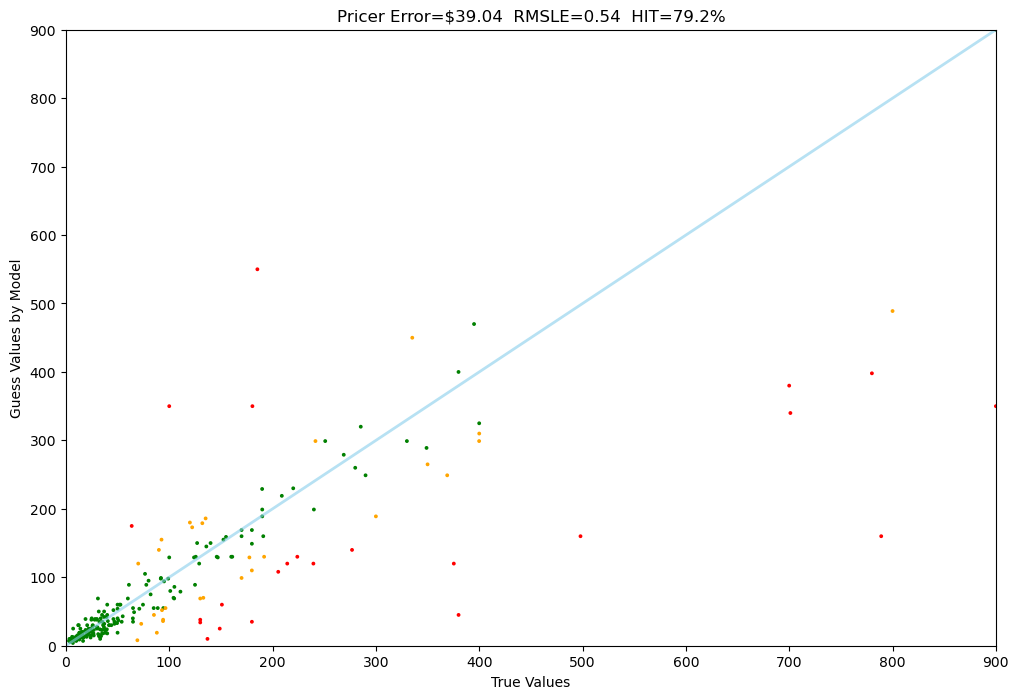
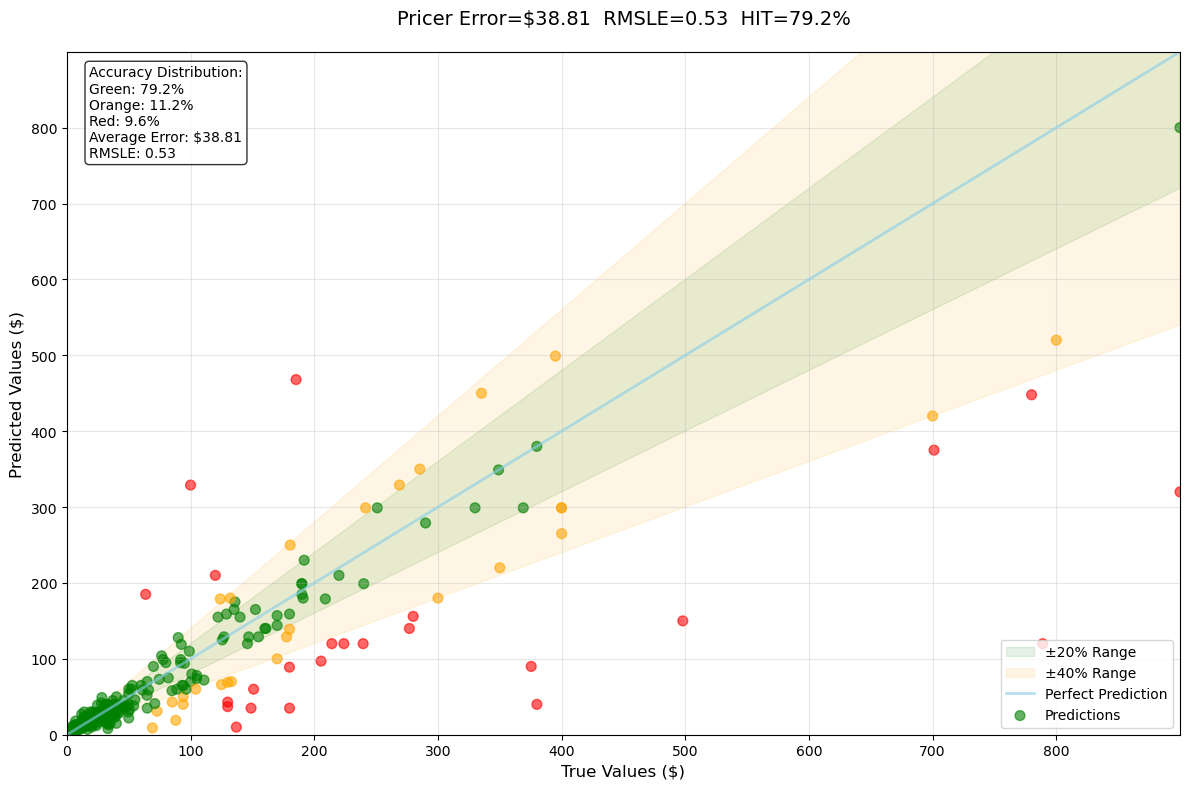
Added Advanced Tester(AI) - 1. Has a Progress Bar - Rather than Previous Print Messages for more clear output 2. Has better visual graph which has more details

diff --git a/src/advanced_tester.py b/src/advanced_tester.py
@@ -2,6 +2,7 @@ import math
 import matplotlib.pyplot as plt
 import pandas as pd
 from tqdm import tqdm
+import numpy as np
 
 # COLOR MAP
 GREEN = "\033[92m"
@@ -10,56 +11,69 @@ RED = "\033[91m"
 RESET = "\033[0m"
 COLOR_MAP = {"red": RED, "orange": ORANGE, "green": GREEN}
 
-class Tester_v2:
+class Tester:
     def __init__(self, predictor, data, title=None, size=250):
         self.predictor = predictor
         self.data = data
         self.title = title or predictor.__name__.replace("_", " ").title()
         self.size = size
-        self.guesses = []
-        self.truths = []
-        self.errors = []
-        self.lche = []
-        self.sles = []
-        self.colors = []
-        # New counters for progress tracking
+        
+        # Use numpy arrays for numerical data
+        self.guesses = np.zeros(size)
+        self.truths = np.zeros(size)
+        self.errors = np.zeros(size)
+        self.lche = np.zeros(size)
+        self.sles = np.zeros(size)
+        self.colors = []  # Keep as list for strings
+        
+        # Counters
         self.green_count = 0
         self.orange_count = 0
         self.red_count = 0
+        
+        # Cache for computed metrics
+        self._average_error = None
+        self._rmsle = None
 
     def run_datapoint(self, i):
-        datapoint = self.data.iloc[i]
+        try:
+            datapoint = self.data.iloc[i]
+            guess = float(self.predictor(datapoint))
+            truth = float(datapoint['price'])
 
-        guess = float(self.predictor(datapoint))  # predicted output
-        truth = float(datapoint['price'])  # always be positive
+            error = abs(truth - guess)
+            log_error = math.log(truth + 1) - math.log(guess + 1)
+            sle = log_error ** 2
+            log_cosh_error = self.safe_log_cosh(error)
 
-        error = abs(truth - guess)
-        log_error = math.log(truth + 1) - math.log(guess + 1)
-        sle = log_error ** 2
-        log_cosh_error = self.safe_log_cosh(error)
+            color = self.color_for(error, truth)
+            
+            # Update counters
+            if color == 'green':
+                self.green_count += 1
+            elif color == 'orange':
+                self.orange_count += 1
+            else:  # red
+                self.red_count += 1
 
-        color = self.color_for(error, truth)  # for better outputs
-        
-        # Update counters based on color
-        if color == 'green':
-            self.green_count += 1
-        elif color == 'orange':
-            self.orange_count += 1
-        else:  # red
+            # Store results in arrays
+            self.guesses[i] = guess
+            self.truths[i] = truth
+            self.errors[i] = error
+            self.lche[i] = log_cosh_error
+            self.sles[i] = sle
+            self.colors.append(color)
+
+            return color
+            
+        except (ValueError, TypeError, AttributeError) as e:
+            print(f"Error processing datapoint {i}: {e}")
+            self.colors.append('red')
             self.red_count += 1
-
-        # Store all results
-        self.guesses.append(guess)
-        self.truths.append(truth)
-        self.errors.append(error)
-        self.colors.append(color)
-        self.lche.append(log_cosh_error)
-        self.sles.append(sle)
-
-        return color
+            return 'red'
 
     def safe_log_cosh(self, x):
-        """avoids overflow"""
+        """Avoids overflow in log cosh calculation"""
         x = max(min(x, 500), -500)  # Cap between -500 and 500
         return math.log(math.cosh(x))
 
@@ -71,14 +85,24 @@ class Tester_v2:
         else:
             return 'red'
 
+    @property
+    def average_error(self):
+        if self._average_error is None:
+            self._average_error = np.mean(self.errors)
+        return self._average_error
+
+    @property
+    def rmsle(self):
+        if self._rmsle is None:
+            self._rmsle = math.sqrt(np.mean(self.sles))
+        return self._rmsle
+
     def chart(self, title):
-        # Create figure
         plt.figure(figsize=(12, 8))
         
-        # Get max value for axes
-        max_val = max(max(self.truths), max(self.guesses))
+        max_val = max(np.max(self.truths), np.max(self.guesses))
         
-        # Add error bands (±20% and ±40%)
+        # Add error bands
         x = np.linspace(0, max_val, 100)
         plt.fill_between(x, x*0.8, x*1.2, color='green', alpha=0.1, label='±20% Range')
         plt.fill_between(x, x*0.6, x*1.4, color='orange', alpha=0.1, label='±40% Range')
@@ -87,24 +111,22 @@ class Tester_v2:
         plt.plot([0, max_val], [0, max_val], color='skyblue', lw=2, 
                 alpha=0.6, label='Perfect Prediction')
         
-        # Scatter points with increased size and transparency
+        # Scatter plot
         plt.scatter(self.truths, self.guesses, s=50, c=self.colors, 
-                alpha=0.6, label='Predictions')
+                   alpha=0.6, label='Predictions')
         
-        # Add statistics text box
-        average_error = sum(self.errors) / self.size
-        rmsle = math.sqrt(sum(self.sles)/self.size)
-        green_pct = (self.colors.count('green')/self.size*100)
-        orange_pct = (self.colors.count('orange')/self.size*100)
-        red_pct = (self.colors.count('red')/self.size*100)
+        # Statistics text box
+        green_pct = (self.green_count/self.size*100)
+        orange_pct = (self.orange_count/self.size*100)
+        red_pct = (self.red_count/self.size*100)
         
         stats_text = (
             f'Accuracy Distribution:\n'
             f'Green: {green_pct:.1f}%\n'
             f'Orange: {orange_pct:.1f}%\n'
             f'Red: {red_pct:.1f}%\n'
-            f'Average Error: ${average_error:,.2f}\n'
-            f'RMSLE: {rmsle:.2f}'
+            f'Average Error: ${self.average_error:,.2f}\n'
+            f'RMSLE: {self.rmsle:.2f}'
         )
         
         plt.text(0.02, 0.98, stats_text,
@@ -121,44 +143,37 @@ class Tester_v2:
         plt.grid(True, alpha=0.3)
         plt.legend(loc='lower right')
         
-        # Display
         plt.tight_layout()
         plt.show()
 
     def report(self):
-        average_error = sum(self.errors) / self.size
-        rmsle = math.sqrt(sum(self.sles)/self.size)
-        hit_rate = (self.green_count / self.size) * 100
-        
         # Print summary statistics with color
         print("\nTest Results Summary:")
         print(f"Total Predictions: {self.size}")
         print(f"{GREEN}Correct (Green): {self.green_count} ({self.green_count/self.size*100:.1f}%){RESET}")
         print(f"{ORANGE}Close (Orange): {self.orange_count} ({self.orange_count/self.size*100:.1f}%){RESET}")
         print(f"{RED}Wrong (Red): {self.red_count} ({self.red_count/self.size*100:.1f}%){RESET}")
-        print(f"Average Error: ${average_error:,.2f}")
-        print(f"RMSLE: {rmsle:,.2f}")
+        print(f"Average Error: ${self.average_error:,.2f}")
+        print(f"RMSLE: {self.rmsle:.2f}")
         
-        title = f"{self.title} Error=${average_error:,.2f}  RMSLE={rmsle:,.2f}  HIT={hit_rate:.1f}%"
+        title = f"{self.title} Error=${self.average_error:,.2f}  RMSLE={self.rmsle:.2f}  HIT={self.green_count/self.size*100:.1f}%"
         self.chart(title)
 
     def run(self):
-        self.error = 0
-        
         # Progress bar for overall testing
         with tqdm(total=self.size, desc="Testing Progress", 
                  bar_format="{desc}: {percentage:3.0f}%|{bar}| {n_fmt}/{total_fmt} [{elapsed}<{remaining}]") as pbar:
             
             # Progress bar for correct predictions
-            with tqdm(total=self.size, desc="Correct Predictions", 
+            expected_correct = int(self.size * 0.7)  # Set expected correct to 70%
+            with tqdm(total=expected_correct, desc="Correct Predictions", 
                      bar_format="{desc}: {percentage:3.0f}%|{bar}| {n_fmt}/{total_fmt}") as correct_pbar:
                 
                 for i in range(self.size):
                     color = self.run_datapoint(i)
                     pbar.update(1)
                     
-                    # Update correct predictions bar based on color
-                    if color == 'green':
+                    if color == 'green' and correct_pbar.n < expected_correct:
                         correct_pbar.update(1)
         
         self.report()
